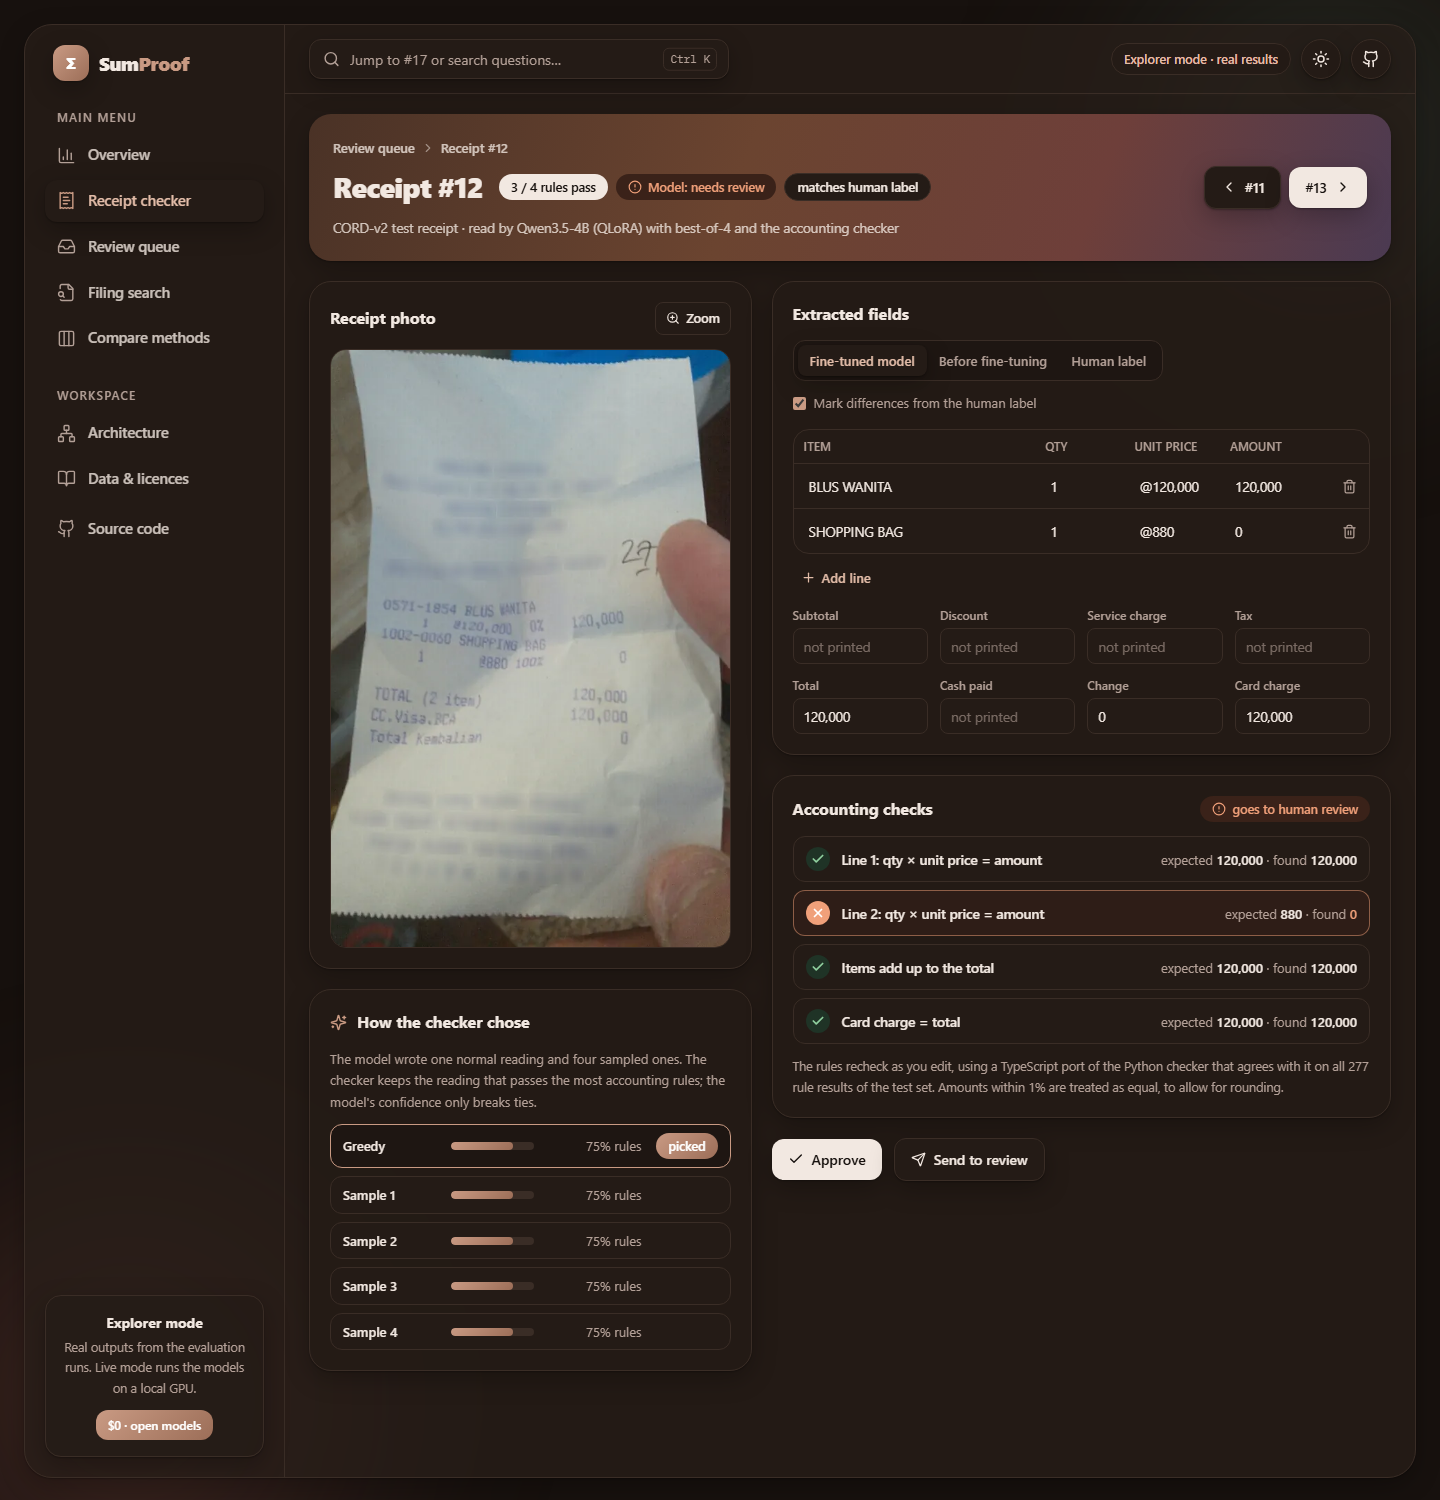
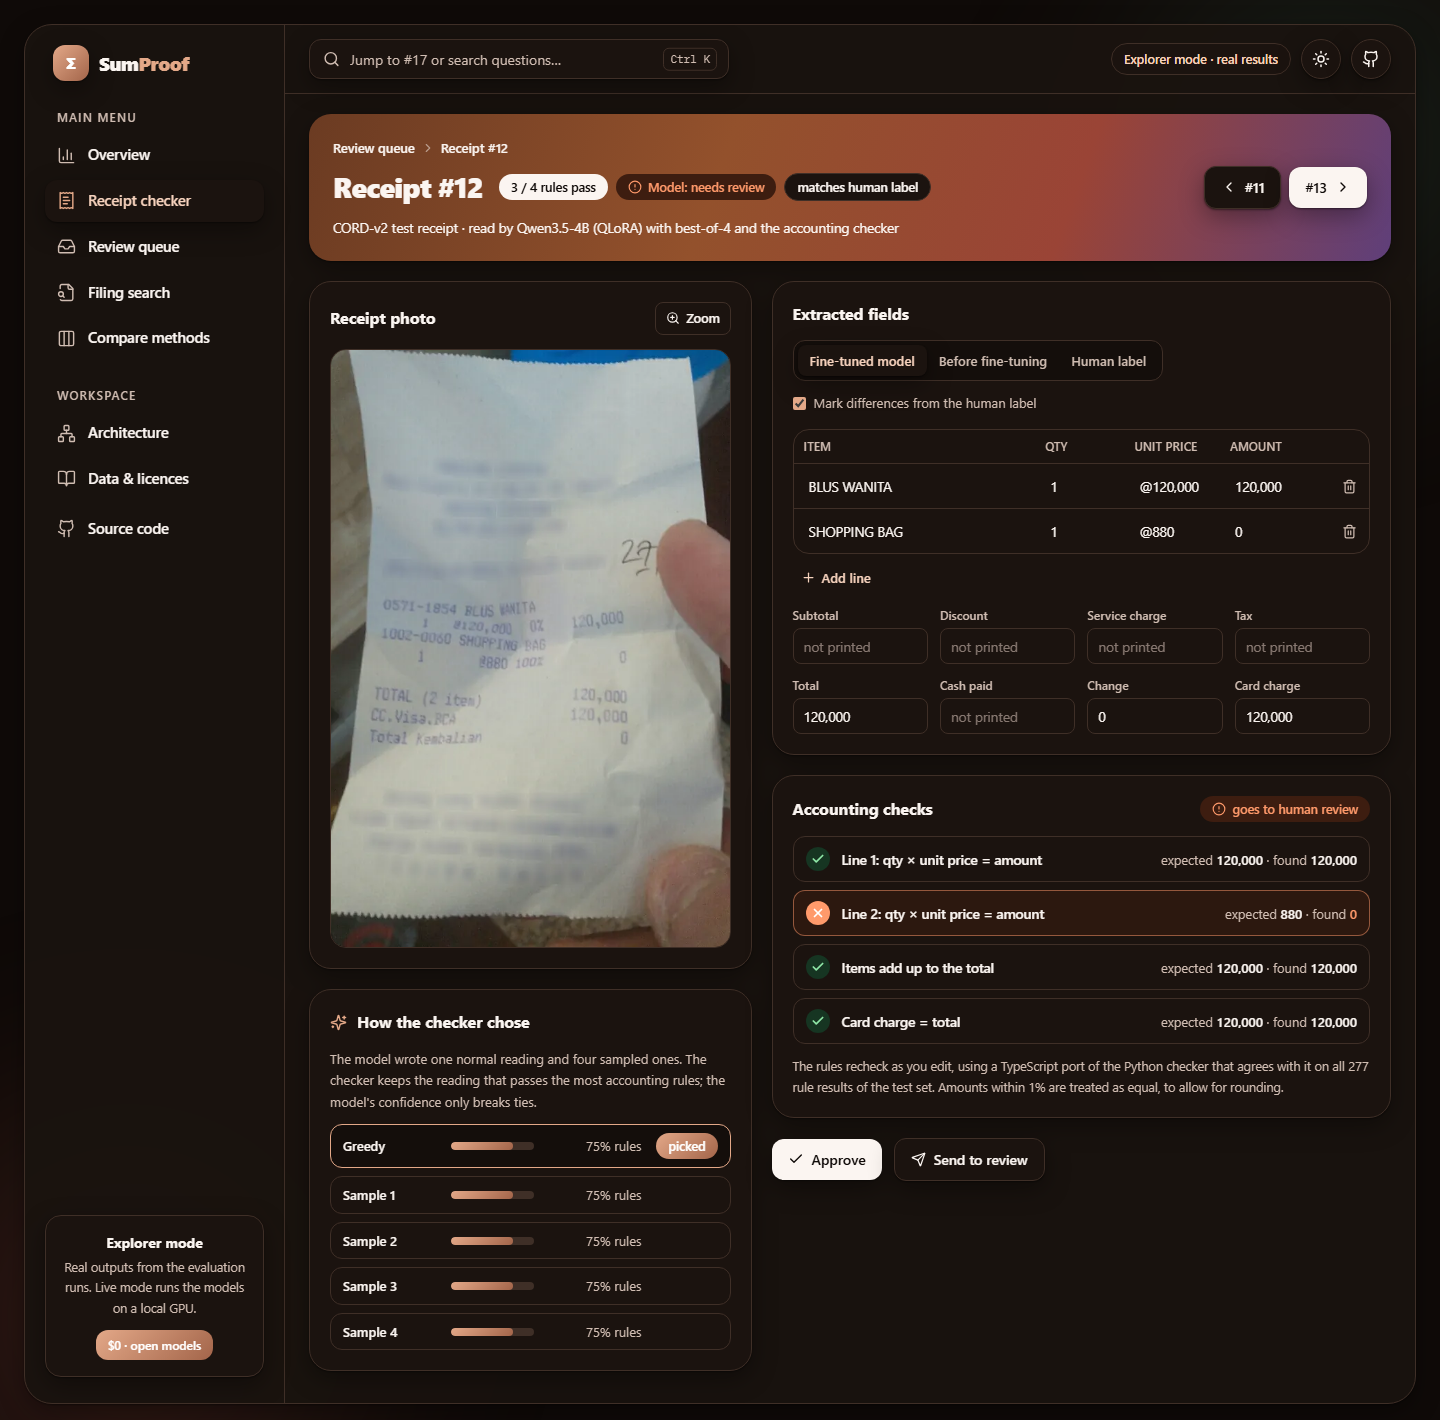
Interface: sharper, higher-contrast colours; update screenshots

diff --git a/web/src/app/globals.css b/web/src/app/globals.css
@@ -3,57 +3,58 @@
 /* Dark mode follows a class on <html>, set by the theme toggle (and the OS on first visit). */
 @custom-variant dark (&:where(.dark, .dark *));
 
-/* SumProof design tokens: mocha mousse with latte, caramel and rose gradients. */
+/* SumProof design tokens: mocha with caramel and rose accents.
+   Tuned for contrast: opaque white cards, deep espresso text (~16:1), muted text ~7:1. */
 :root {
-  --bg: #f3ece6;
-  --surface: rgba(255, 252, 249, 0.74);
-  --surface-solid: #fffcf9;
-  --sunken: #f7f1ec;
-  --ink: #2b1f1a;
-  --muted: #7b6a62;
-  --line: #e7dcd3;
-  --mocha: #a47864;
-  --mocha-deep: #6f4e3d;
-  --caramel: #c8915c;
-  --rose: #e2a196;
-  --sage: #9fbfae;
-  --good: #3f7a4f;
-  --good-soft: #e3f0e6;
-  --warn: #b5562a;
-  --warn-soft: #fbe7dc;
-  --info: #5a6b9c;
-  --info-soft: #e7eaf5;
-  --banner: linear-gradient(110deg, #f6e6d6 0%, #eec8a6 38%, #e7a99b 72%, #dcc2df 100%);
-  --mocha-grad: linear-gradient(135deg, #b88a73 0%, #8a6250 100%);
-  --blob-a: rgba(226, 161, 150, 0.55);
-  --blob-b: rgba(159, 191, 174, 0.5);
-  --shadow: 0 1px 2px rgba(80, 52, 38, 0.06), 0 8px 24px rgba(80, 52, 38, 0.07);
+  --bg: #f4efea;
+  --surface: rgba(255, 255, 255, 0.94);
+  --surface-solid: #ffffff;
+  --sunken: #f6f0ea;
+  --ink: #1c120d;
+  --muted: #574740;
+  --line: #ded0c5;
+  --mocha: #9a6249;
+  --mocha-deep: #5c3523;
+  --caramel: #c97f3c;
+  --rose: #e8846f;
+  --sage: #6fa98d;
+  --good: #1f7a3c;
+  --good-soft: #dcf2e2;
+  --warn: #b23d0f;
+  --warn-soft: #fde3d6;
+  --info: #3c55a5;
+  --info-soft: #e2e8fb;
+  --banner: linear-gradient(110deg, #fde2c3 0%, #f8b98a 36%, #f39482 68%, #d6a8ec 100%);
+  --mocha-grad: linear-gradient(135deg, #ad7254 0%, #6e3f2a 100%);
+  --blob-a: rgba(243, 148, 130, 0.32);
+  --blob-b: rgba(111, 169, 141, 0.28);
+  --shadow: 0 1px 2px rgba(60, 35, 22, 0.08), 0 6px 20px rgba(60, 35, 22, 0.08);
 }
 
 .dark {
-  --bg: #17110e;
-  --surface: rgba(40, 30, 25, 0.72);
-  --surface-solid: #241b16;
-  --sunken: #1e1612;
-  --ink: #f2e8e1;
-  --muted: #b3a097;
-  --line: #3a2d26;
-  --mocha: #c99a83;
-  --mocha-deep: #e2bca8;
-  --caramel: #d9a670;
-  --rose: #d4897d;
-  --sage: #7fa592;
-  --good: #8fcf9e;
-  --good-soft: #1f3326;
-  --warn: #f0a07a;
-  --warn-soft: #3a2219;
-  --info: #a9b7e6;
-  --info-soft: #232a40;
-  --banner: linear-gradient(110deg, #4a3226 0%, #6b4430 40%, #6e3f3a 72%, #4b3a52 100%);
-  --mocha-grad: linear-gradient(135deg, #c99a83 0%, #9c6e58 100%);
-  --blob-a: rgba(180, 100, 90, 0.28);
-  --blob-b: rgba(90, 130, 110, 0.25);
-  --shadow: 0 1px 2px rgba(0, 0, 0, 0.3), 0 8px 24px rgba(0, 0, 0, 0.25);
+  --bg: #0f0a08;
+  --surface: rgba(26, 19, 15, 0.94);
+  --surface-solid: #1b130f;
+  --sunken: #140e0b;
+  --ink: #fbf5f1;
+  --muted: #d0bdb2;
+  --line: #3f2f27;
+  --mocha: #e3a888;
+  --mocha-deep: #f6d2bd;
+  --caramel: #f0a868;
+  --rose: #f29a86;
+  --sage: #86c6a6;
+  --good: #8ee6a6;
+  --good-soft: #163522;
+  --warn: #ff9a6b;
+  --warn-soft: #3d1d10;
+  --info: #a9bdff;
+  --info-soft: #1d2647;
+  --banner: linear-gradient(110deg, #6b3b22 0%, #93512c 38%, #9a4436 70%, #5f3f7a 100%);
+  --mocha-grad: linear-gradient(135deg, #e3a888 0%, #a3654a 100%);
+  --blob-a: rgba(200, 95, 75, 0.22);
+  --blob-b: rgba(80, 150, 120, 0.18);
+  --shadow: 0 1px 2px rgba(0, 0, 0, 0.45), 0 8px 24px rgba(0, 0, 0, 0.35);
   color-scheme: dark;
 }
 
@@ -119,8 +120,8 @@ body {
 
 .glass {
   background: var(--surface);
-  backdrop-filter: blur(18px) saturate(1.2);
-  -webkit-backdrop-filter: blur(18px) saturate(1.2);
+  backdrop-filter: blur(10px);
+  -webkit-backdrop-filter: blur(10px);
 }
 
 .banner {

diff --git a/web/src/components/ui.tsx b/web/src/components/ui.tsx
@@ -17,7 +17,7 @@ export function Card({
   bodyClassName?: string;
 }) {
   return (
-    <section className={`min-w-0 rounded-[22px] border border-line bg-surface-solid/70 p-4 shadow-card sm:p-5 ${className}`}>
+    <section className={`min-w-0 rounded-[22px] border border-line bg-surface-solid p-4 shadow-card sm:p-5 ${className}`}>
       {(title || action) && (
         <div className="mb-3.5 flex items-center gap-2.5">
           {icon && <span className="text-mocha">{icon}</span>}
@@ -48,7 +48,7 @@ export function Banner({
 }) {
   return (
     <div className="banner mb-5 rounded-[22px] p-5 shadow-card sm:p-6">
-      <nav aria-label="Breadcrumb" className="mb-2 flex flex-wrap items-center gap-1.5 text-[13px] font-medium text-ink/80">
+      <nav aria-label="Breadcrumb" className="mb-2 flex flex-wrap items-center gap-1.5 text-[13px] font-medium text-ink">
         {crumbs.map((c, i) => (
           <span key={i} className="flex items-center gap-1.5">
             {i > 0 && <ChevronRight size={14} className="text-ink/50" />}
@@ -67,7 +67,7 @@ export function Banner({
         {pills && <div className="flex flex-wrap items-center gap-2">{pills}</div>}
         {right && <div className="ml-auto flex flex-wrap items-center gap-2">{right}</div>}
       </div>
-      {meta && <div className="mt-2 text-[13.5px] text-ink/80">{meta}</div>}
+      {meta && <div className="mt-2 text-[13.5px] text-ink">{meta}</div>}
       {children}
     </div>
   );
@@ -92,7 +92,7 @@ export function Pill({ tone = "light", children, className = "" }: { tone?: keyo
 
 export function Stat({ label, before, after, note }: { label: string; before: string; after: string; note?: string }) {
   return (
-    <div className="rounded-[20px] border border-line bg-surface-solid/80 p-4 shadow-card">
+    <div className="rounded-[20px] border border-line bg-surface-solid p-4 shadow-card">
       <p className="text-[12.5px] font-semibold tracking-wide text-muted uppercase">{label}</p>
       <p className="tabular mt-2 flex items-baseline gap-2 text-ink">
         <span className="text-[17px] text-muted line-through decoration-1">{before}</span>

diff --git a/web/src/components/Shell.tsx b/web/src/components/Shell.tsx
@@ -62,7 +62,7 @@ function NavList({ items, path, onNavigate }: { items: typeof MAIN; path: string
               onClick={onNavigate}
               aria-current={active ? "page" : undefined}
               className={`flex items-center gap-3 rounded-xl px-3 py-2.5 text-[14.5px] font-medium transition-colors ${
-                active ? "bg-surface-solid text-mocha-deep shadow-card" : "text-ink/80 hover:bg-surface-solid/60 hover:text-ink"
+                active ? "bg-surface-solid text-mocha-deep shadow-card" : "text-ink hover:bg-surface-solid/60 hover:text-ink"
               }`}
             >
               <Icon size={19} strokeWidth={1.8} className={active ? "text-mocha" : "text-muted"} />
@@ -90,13 +90,13 @@ function Sidebar({ path, onNavigate }: { path: string; onNavigate?: () => void }
           href={GITHUB_URL}
           target="_blank"
           rel="noreferrer"
-          className="flex items-center gap-3 rounded-xl px-3 py-2.5 text-[14.5px] font-medium text-ink/80 hover:bg-surface-solid/60 hover:text-ink"
+          className="flex items-center gap-3 rounded-xl px-3 py-2.5 text-[14.5px] font-medium text-ink hover:bg-surface-solid/60 hover:text-ink"
         >
           <Github size={19} strokeWidth={1.8} className="text-muted" />
           Source code
         </a>
       </nav>
-      <div className="mt-auto rounded-2xl border border-line bg-surface-solid/80 p-4 text-center shadow-card">
+      <div className="mt-auto rounded-2xl border border-line bg-surface-solid p-4 text-center shadow-card">
         <p className="text-[14px] font-bold text-ink">Explorer mode</p>
         <p className="mt-1 text-[12.5px] leading-relaxed text-muted">
           Real outputs from the evaluation runs. Live mode runs the models on a local GPU.

diff --git a/web/src/components/CompareMethods.tsx b/web/src/components/CompareMethods.tsx
@@ -45,7 +45,7 @@ export function CompareMethods({ questions, metrics }: { questions: QuestionSumm
       >
         <QuestionPicker questions={questions} value={qi} onChange={choose} />
         <div className="mt-3 flex flex-wrap items-center gap-2">
-          <span className="flex items-center gap-1.5 text-[12.5px] font-semibold text-ink/80">
+          <span className="flex items-center gap-1.5 text-[12.5px] font-semibold text-ink">
             <Lightbulb size={14} /> Questions that show the difference:
           </span>
           {interesting.map(({ q, why }) => (
@@ -75,7 +75,7 @@ export function CompareMethods({ questions, metrics }: { questions: QuestionSumm
             return (
               <section
                 key={m.key}
-                className={`min-w-0 rounded-[22px] border p-4 shadow-card ${final ? "border-mocha bg-surface-solid" : "border-line bg-surface-solid/70"}`}
+                className={`min-w-0 rounded-[22px] border p-4 shadow-card ${final ? "border-mocha bg-surface-solid" : "border-line bg-surface-solid"}`}
               >
                 <p className="text-[11.5px] font-semibold tracking-wide text-muted uppercase">{m.note}</p>
                 <h2 className="mt-0.5 text-[15px] font-bold text-ink">{m.label}</h2>

diff --git a/web/src/app/page.tsx b/web/src/app/page.tsx
@@ -150,7 +150,7 @@ export default function Overview() {
       <h2 className="mt-7 mb-3 text-[16px] font-bold text-ink">Explore the results</h2>
       <div className="grid grid-cols-1 gap-4 sm:grid-cols-2 xl:grid-cols-4">
         {SCREENS.map(({ href, icon: Icon, title, text }) => (
-          <Link key={href} href={href} className="group rounded-[20px] border border-line bg-surface-solid/80 p-4 shadow-card transition hover:border-mocha">
+          <Link key={href} href={href} className="group rounded-[20px] border border-line bg-surface-solid p-4 shadow-card transition hover:border-mocha">
             <span className="mocha-grad grid h-9 w-9 place-items-center rounded-xl text-white">
               <Icon size={18} />
             </span>
